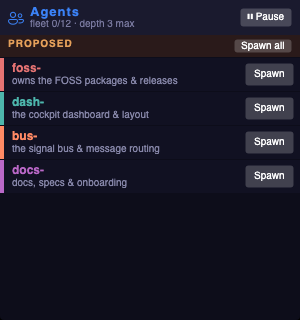
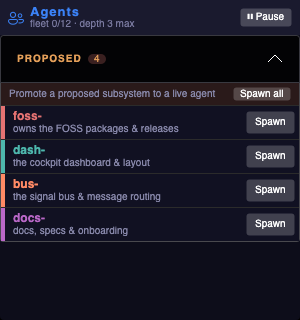
fix(docs-screenshot): expand the PROPOSED roster before capturing its figures
cockpit- made the proposed-team roster a collapsed-by-default Expander
(accordion), so Capture_proposed_team / Manual_roster_and_proposed captured
only the "PROPOSED · N" header — the agent cards never materialized (an
Expander doesn't realize collapsed content), leaving the manual/README
figures uninformative.

Both capture loops now expand every Expander in the view (idempotently, each
pass) as soon as it materializes, so the cards realize before capture. Then
poll-until-first-card as before. Regenerated docs/screenshots/proposed-team.png
and docs/manual/images/roster-proposed.png — both now show the full proposed
team (foss-/dash-/bus-/docs-[/git-]) with Spawn buttons. Both UITests green.

diff --git a/tests/Styloagent.UITests/ManualScreenshotTests.cs b/tests/Styloagent.UITests/ManualScreenshotTests.cs
@@ -128,11 +128,15 @@ public class ManualScreenshotTests
                 var window = new Window { Width = 300, Height = 360, Content = view };
                 window.Show();
 
-                // The PROPOSED ItemsControl materializes its cards asynchronously — poll until the
-                // first card's prefix text appears rather than relying on a single settle.
+                // The PROPOSED roster is a collapsed-by-default Expander, so expand it (each pass, as soon
+                // as it materializes) before capturing — otherwise the figure shows only the collapsed
+                // "PROPOSED" header, not the agent cards. Its cards then materialize asynchronously, so poll
+                // until the first card's prefix text appears rather than relying on a single settle.
                 bool HasCards() => window.GetVisualDescendants().OfType<TextBlock>().Any(t => (t.Text ?? "") == "foss-");
                 for (int i = 0; i < 40 && !HasCards(); i++)
                 {
+                    foreach (var exp in window.GetVisualDescendants().OfType<Expander>())
+                        exp.IsExpanded = true;
                     await HeadlessRender.SettleAsync(window);
                     await Task.Delay(25);
                 }

diff --git a/tests/Styloagent.UITests/ReadmeScreenshotTests.cs b/tests/Styloagent.UITests/ReadmeScreenshotTests.cs
@@ -216,11 +216,15 @@ public class ReadmeScreenshotTests
                 var window = new Window { Width = 300, Height = 320, Content = view };
                 window.Show();
 
-                // The PROPOSED ItemsControl materializes its cards asynchronously — poll until the
-                // first card's prefix text appears rather than relying on a single settle.
+                // The PROPOSED roster is a collapsed-by-default Expander, so expand it (each pass, as soon
+                // as it materializes) before capturing — otherwise the figure shows only the collapsed
+                // "PROPOSED" header, not the agent cards. Its cards then materialize asynchronously, so poll
+                // until the first card's prefix text appears rather than relying on a single settle.
                 bool HasCards() => window.GetVisualDescendants().OfType<TextBlock>().Any(t => (t.Text ?? "") == "foss-");
                 for (int i = 0; i < 40 && !HasCards(); i++)
                 {
+                    foreach (var exp in window.GetVisualDescendants().OfType<Expander>())
+                        exp.IsExpanded = true;
                     await HeadlessRender.SettleAsync(window);
                     await Task.Delay(25);
                 }